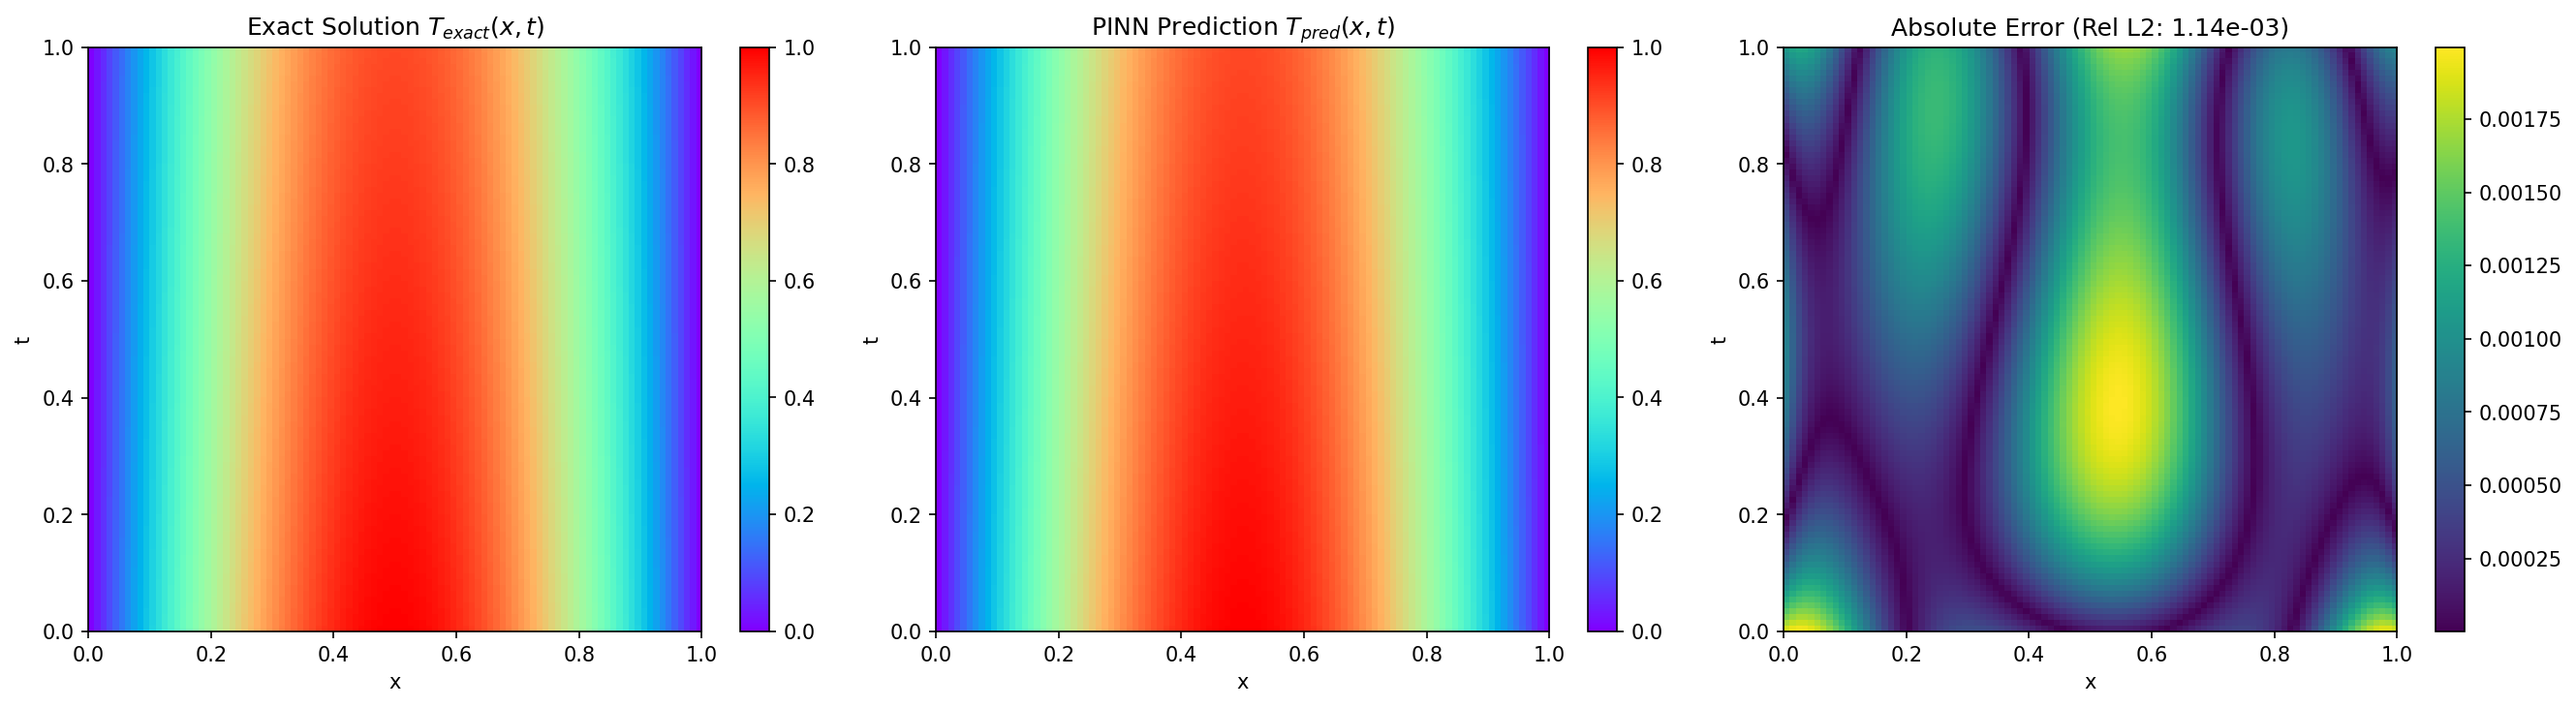
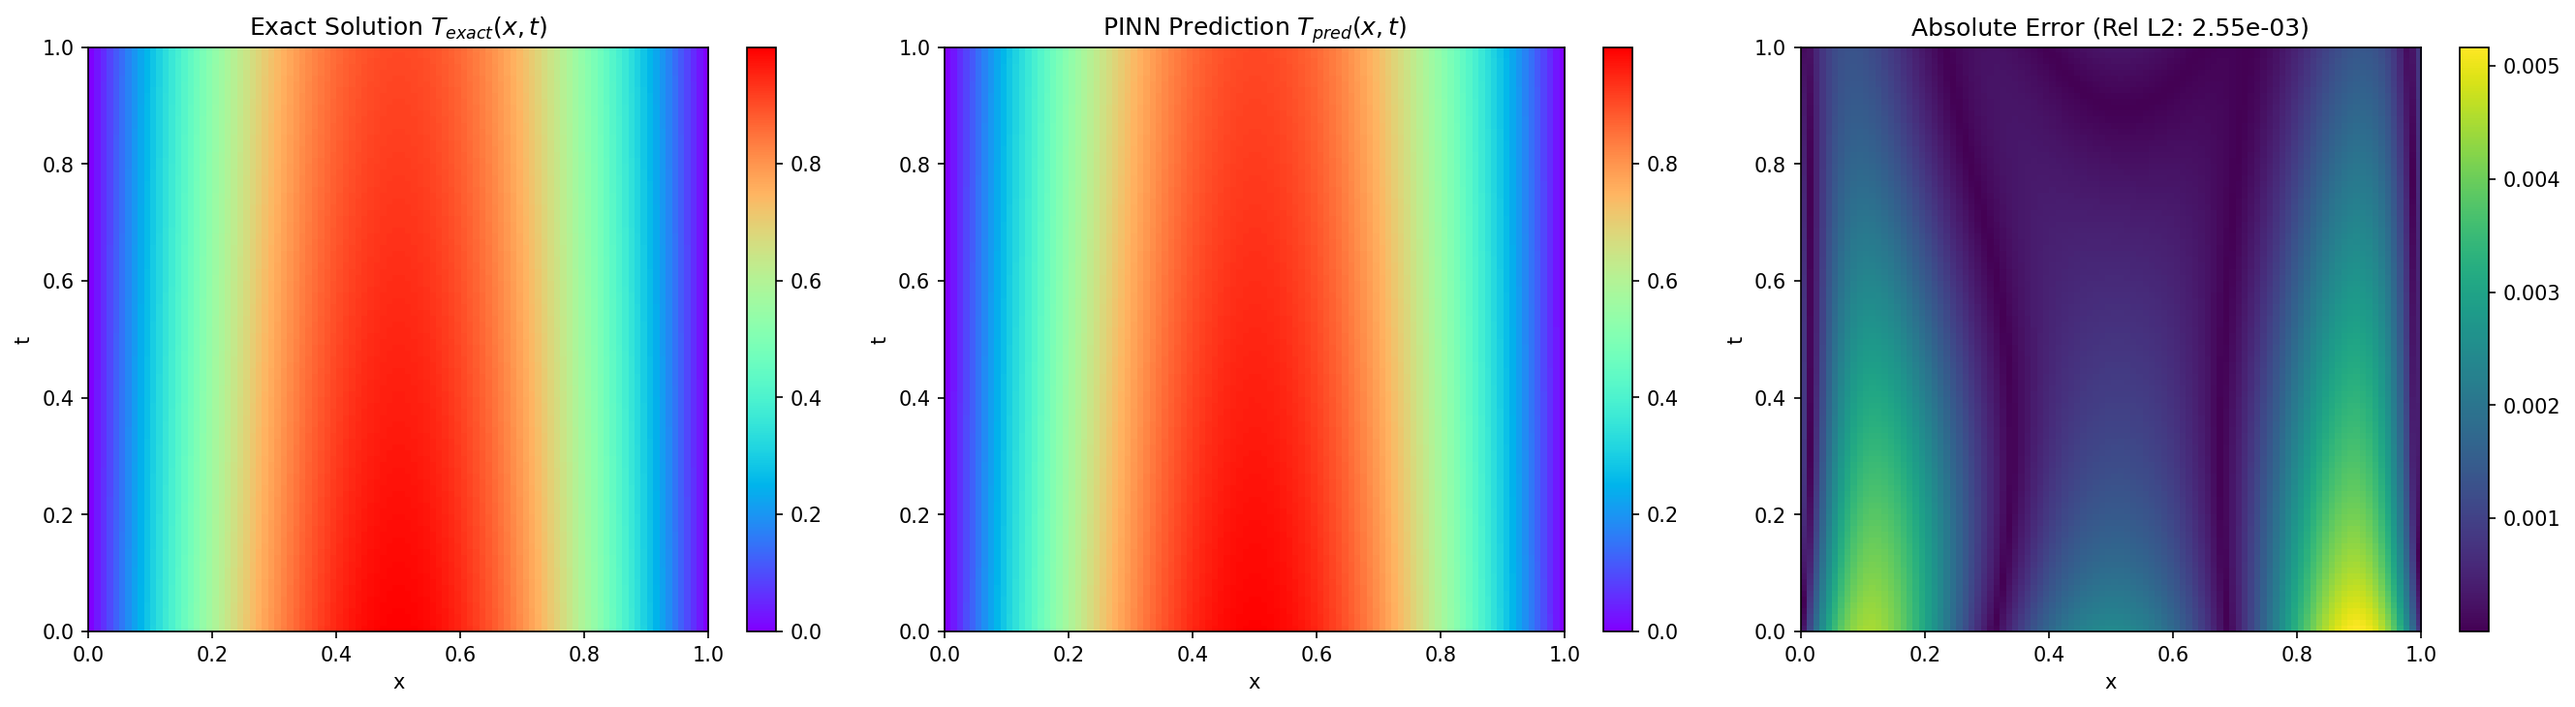
main

diff --git a/2026.2.28/weight_experiment.py b/2026.2.28/weight_experiment.py
@@ -1,0 +1,158 @@
+import torch 
+import torch.nn as nn
+import torch.optim as optim
+import math
+import torch.nn.functional as F
+import matplotlib.pyplot as plt
+import numpy as np
+
+N_f = 1000
+N_ic = 100
+N_bc = 100
+alpha = 0.01
+epochs = 5000
+learning_rate = 1e-3
+w_pde = 1
+w_ic = 1
+w_bc = 1
+
+x = torch.rand(N_f, 1, requires_grad=True)
+t = torch.rand(N_f, 1, requires_grad=True)
+
+x_ic = torch.rand(N_ic, 1)
+t_ic = torch.zeros(N_ic, 1)
+
+x_b = torch.zeros(N_bc, 1)
+t_b = torch.rand(N_bc, 1)
+
+x_c = torch.ones(N_bc, 1)
+t_c = torch.rand(N_bc, 1)
+
+class SimpleMLP(nn.Module):
+    def __init__(self):
+        super().__init__()
+        # 定义输入层到隐藏层（输入维度2 -> 隐藏神经元20）
+        self.hidden_layer = nn.Linear(2, 50)
+        # 定义激活函数
+        self.activation = nn.Tanh()
+        # 定义隐藏层到输出层（隐藏神经元20 -> 输出维度1）
+        self.output_layer = nn.Linear(50, 1)
+
+    def forward(self, x):
+        # 数据流水线：输入 -> 隐藏层 -> 激活函数 -> 输出层
+        x = self.hidden_layer(x)
+        x = self.activation(x)
+        output = self.output_layer(x)
+        return output
+
+def compute_pde_residual(model, x, t, alpha):
+    T = model.forward(torch.cat([x, t], dim=1))
+    dT_dt = torch.autograd.grad(
+        outputs=T, inputs=t, 
+        grad_outputs=torch.ones_like(T), 
+        create_graph=True)[0]
+    dT_dx = torch.autograd.grad(outputs=T, inputs=x, 
+        grad_outputs=torch.ones_like(T),
+        create_graph=True)[0]
+    d2T_dx2 = torch.autograd.grad(outputs=dT_dx, inputs=x,
+        grad_outputs=torch.ones_like(T),
+        create_graph=True)[0]
+    residual = dT_dt - alpha * d2T_dx2
+    return residual
+
+def compute_adaptive_weights(model, loss_pde, loss_ic, loss_bc):
+    """计算自适应权重，基于各项 Loss 对网络最后一层权重的梯度范数"""
+
+    grad_pde_tensor = torch.autograd.grad(loss_pde, model.output_layer.weight, retain_graph=True)[0]
+    grad_ic_tensor  = torch.autograd.grad(loss_ic,  model.output_layer.weight, retain_graph=True)[0]
+    grad_bc_tensor  = torch.autograd.grad(loss_bc,  model.output_layer.weight, retain_graph=True)[0]
+
+    grad_pde = torch.linalg.norm(grad_pde_tensor)
+    grad_ic  = torch.linalg.norm(grad_ic_tensor)
+    grad_bc  = torch.linalg.norm(grad_bc_tensor)
+
+    grad_mean = (grad_pde + grad_ic + grad_bc) / 3.0
+
+    w_pde = (grad_mean / (grad_pde + 1e-8)).detach()
+    w_ic  = (grad_mean / (grad_ic  + 1e-8)).detach()
+    w_bc  = (grad_mean / (grad_bc  + 1e-8)).detach()
+
+    return w_pde, w_ic, w_bc
+model = SimpleMLP()
+optimizer = optim.Adam(model.parameters(), lr=learning_rate)
+
+print("开始训练...")
+for epoch in range(epochs):
+    optimizer.zero_grad()
+
+    residual = compute_pde_residual(model, x, t, alpha)
+    loss_pde = F.mse_loss(residual, torch.zeros_like(residual))
+    
+    loss_ic = F.mse_loss(model(torch.cat([x_ic, t_ic], dim=1)), torch.sin(x_ic * math.pi))
+    T_left = model(torch.cat([x_b, t_b], dim=1))
+    T_right = model(torch.cat([x_c, t_c], dim=1))
+    loss_bc = F.mse_loss(T_left, torch.zeros_like(T_left)) + F.mse_loss(T_right, torch.zeros_like(T_right))
+
+    w_pde, w_ic, w_bc = compute_adaptive_weights(model, loss_pde, loss_ic, loss_bc)
+    loss_total = w_pde * loss_pde + w_ic * loss_ic + w_bc * loss_bc
+
+    loss_total.backward()
+    optimizer.step()
+
+    if (epoch + 1) % 100 == 0:
+        print(f"Epoch [{epoch+1}/{epochs}], Loss Total: {loss_total.item():.6f} "
+              f"(PDE: {loss_pde.item():.6f}, IC: {loss_ic.item():.6f}, BC: {loss_bc.item():.6f})")
+print("训练完成！")
+
+x_eval = torch.linspace(0, 1, 100)
+t_eval = torch.linspace(0, 1, 100)
+X, T_grid = torch.meshgrid(x_eval, t_eval, indexing='ij')
+
+X_flat = X.flatten().unsqueeze(1)
+T_flat = T_grid.flatten().unsqueeze(1)
+XT_eval = torch.cat([X_flat, T_flat], dim=1)
+
+model.eval()
+with torch.no_grad():
+    T_pred_flat = model(XT_eval)
+
+T_pred = T_pred_flat.reshape(100, 100).numpy()
+
+X_np = X.numpy()
+T_np = T_grid.numpy()
+alpha_val = 0.01
+
+T_exact = np.sin(np.pi * X_np) * np.exp(-alpha_val * (np.pi**2) * T_np)
+error_l2 = np.linalg.norm(T_pred - T_exact, 2) / np.linalg.norm(T_exact, 2)
+print(f"相对 L2 误差 (Relative L2 Error): {error_l2:.4e}")
+
+# 画 图
+# fig, axes = plt.subplots(1, 3, figsize=(18, 5))
+# vmin = min(T_exact.min(), T_pred.min())
+# vmax = max(T_exact.max(), T_pred.max())
+
+# h1 = axes[0].imshow(T_exact.T, interpolation='nearest', cmap='rainbow', 
+#                     extent=[0, 1, 0, 1], origin='lower', aspect='auto', vmin=vmin, vmax=vmax)
+# axes[0].set_title('Exact Solution $T_{exact}(x,t)$')
+# axes[0].set_xlabel('x')
+# axes[0].set_ylabel('t')
+# fig.colorbar(h1, ax=axes[0])
+
+# h2 = axes[1].imshow(T_pred.T, interpolation='nearest', cmap='rainbow', 
+#                     extent=[0, 1, 0, 1], origin='lower', aspect='auto', vmin=vmin, vmax=vmax)
+# axes[1].set_title('PINN Prediction $T_{pred}(x,t)$')
+# axes[1].set_xlabel('x')
+# axes[1].set_ylabel('t')
+# fig.colorbar(h2, ax=axes[1])
+
+# abs_error = np.abs(T_exact - T_pred)
+# h3 = axes[2].imshow(abs_error.T, interpolation='nearest', cmap='viridis', 
+#                     extent=[0, 1, 0, 1], origin='lower', aspect='auto')
+# axes[2].set_title(f'Absolute Error (Rel L2: {error_l2:.2e})')
+# axes[2].set_xlabel('x')
+# axes[2].set_ylabel('t')
+# fig.colorbar(h3, ax=axes[2])
+
+# plt.tight_layout()
+# plt.savefig('heat_equation_result.png', dpi=150, bbox_inches='tight')
+# print("图片已保存为 heat_equation_result.png")

diff --git a/2026.2.28/parametric_pinn.py b/2026.2.28/parametric_pinn.py
@@ -1,0 +1,146 @@
+import torch 
+import torch.nn as nn
+import torch.optim as optim
+import math
+import torch.nn.functional as F
+import matplotlib.pyplot as plt
+import numpy as np
+
+N_f = 1000
+N_ic = 100
+N_bc = 100
+alpha = 0.01
+alpha_min = 0.01
+alpha_max = 0.1
+alpha_test = 0.05
+epochs = 10000
+learning_rate = 1e-3
+
+x = torch.rand(N_f, 1, requires_grad=True)
+t = torch.rand(N_f, 1, requires_grad=True)
+alpha_sample = alpha_min + (alpha_max - alpha_min) * torch.rand(N_f, 1)
+
+x_ic = torch.rand(N_ic, 1)
+t_ic = torch.zeros(N_ic, 1)
+alpha_ic = alpha_min + (alpha_max - alpha_min) * torch.rand(N_ic, 1)
+
+x_b = torch.zeros(N_bc, 1)
+t_b = torch.rand(N_bc, 1)
+alpha_b = alpha_min + (alpha_max - alpha_min) * torch.rand(N_bc, 1)
+
+x_c = torch.ones(N_bc, 1)
+t_c = torch.rand(N_bc, 1)
+alpha_c = alpha_min + (alpha_max - alpha_min) * torch.rand(N_bc, 1)
+
+
+class SimpleMLP(nn.Module):
+    def __init__(self):
+        super().__init__()
+        # 定义输入层到隐藏层（输入维度3 -> 隐藏神经元64）
+        self.hidden_layer1 = nn.Linear(3,  64)
+        self.hidden_layer2 = nn.Linear(64, 64)
+        self.hidden_layer3 = nn.Linear(64, 64)
+        # 定义激活函数
+        self.activation = nn.Tanh()
+        # 定义隐藏层到输出层（隐藏神经元50 -> 输出维度1）
+        self.output_layer = nn.Linear(64, 1)
+
+    def forward(self, x):
+        # 数据流水线：输入 -> 隐藏层 -> 激活函数 -> 输出层
+        x = self.hidden_layer(x)
+        x = self.activation(x)
+        output = self.output_layer(x)
+        return output
+
+def compute_pde_residual(model, x, t, alpha):
+    T = model.forward(torch.cat([x, t, alpha], dim=1))
+    dT_dt = torch.autograd.grad(
+        outputs=T, inputs=t, 
+        grad_outputs=torch.ones_like(T), 
+        create_graph=True)[0]
+    dT_dx = torch.autograd.grad(outputs=T, inputs=x, 
+        grad_outputs=torch.ones_like(T),
+        create_graph=True)[0]
+    d2T_dx2 = torch.autograd.grad(outputs=dT_dx, inputs=x,
+        grad_outputs=torch.ones_like(T),
+        create_graph=True)[0]
+    residual = dT_dt - alpha * d2T_dx2
+    return residual
+
+model = SimpleMLP()
+optimizer = optim.Adam(model.parameters(), lr=learning_rate)
+
+print("开始训练...")
+for epoch in range(epochs):
+    optimizer.zero_grad()
+
+    residual = compute_pde_residual(model, x, t, alpha_sample)
+    loss_pde = F.mse_loss(residual, torch.zeros_like(residual))
+    
+    loss_ic = F.mse_loss(model(torch.cat([x_ic, t_ic, alpha_ic], dim=1)), torch.sin(x_ic * math.pi))
+    T_left = model(torch.cat([x_b, t_b, alpha_b], dim=1))
+    T_right = model(torch.cat([x_c, t_c, alpha_c], dim=1))
+    loss_bc = F.mse_loss(T_left, torch.zeros_like(T_left)) + F.mse_loss(T_right, torch.zeros_like(T_right))
+
+    loss_total = loss_pde + loss_ic + loss_bc
+
+    loss_total.backward()
+    optimizer.step()
+
+    if (epoch + 1) % 100 == 0:
+        print(f"Epoch [{epoch+1}/{epochs}], Loss Total: {loss_total.item():.6f} "
+              f"(PDE: {loss_pde.item():.6f}, IC: {loss_ic.item():.6f}, BC: {loss_bc.item():.6f})")
+print("训练完成！")
+
+x_eval = torch.linspace(0, 1, 100)
+t_eval = torch.linspace(0, 1, 100)
+X, T_grid = torch.meshgrid(x_eval, t_eval, indexing='ij')
+
+X_flat = X.flatten().unsqueeze(1)
+T_flat = T_grid.flatten().unsqueeze(1)
+alpha_eval = torch.full_like(X_flat, alpha_test)
+XT_eval = torch.cat([X_flat, T_flat, alpha_eval], dim=1)
+
+model.eval()
+with torch.no_grad():
+    T_pred_flat = model(XT_eval)
+
+T_pred = T_pred_flat.reshape(100, 100).numpy()
+
+X_np = X.numpy()
+T_np = T_grid.numpy()
+alpha_val = alpha_test  # 验证时必须与网络预测用的 α 一致
+
+T_exact = np.sin(np.pi * X_np) * np.exp(-alpha_val * (np.pi**2) * T_np)
+error_l2 = np.linalg.norm(T_pred - T_exact, 2) / np.linalg.norm(T_exact, 2)
+print(f"相对 L2 误差 (Relative L2 Error): {error_l2:.4e}")
+
+fig, axes = plt.subplots(1, 3, figsize=(18, 5))
+vmin = min(T_exact.min(), T_pred.min())
+vmax = max(T_exact.max(), T_pred.max())
+
+h1 = axes[0].imshow(T_exact.T, interpolation='nearest', cmap='rainbow', 
+                    extent=[0, 1, 0, 1], origin='lower', aspect='auto', vmin=vmin, vmax=vmax)
+axes[0].set_title('Exact Solution $T_{exact}(x,t)$')
+axes[0].set_xlabel('x')
+axes[0].set_ylabel('t')
+fig.colorbar(h1, ax=axes[0])
+
+h2 = axes[1].imshow(T_pred.T, interpolation='nearest', cmap='rainbow', 
+                    extent=[0, 1, 0, 1], origin='lower', aspect='auto', vmin=vmin, vmax=vmax)
+axes[1].set_title('PINN Prediction $T_{pred}(x,t)$')
+axes[1].set_xlabel('x')
+axes[1].set_ylabel('t')
+fig.colorbar(h2, ax=axes[1])
+
+abs_error = np.abs(T_exact - T_pred)
+h3 = axes[2].imshow(abs_error.T, interpolation='nearest', cmap='viridis', 
+                    extent=[0, 1, 0, 1], origin='lower', aspect='auto')
+axes[2].set_title(f'Absolute Error (Rel L2: {error_l2:.2e})')
+axes[2].set_xlabel('x')
+axes[2].set_ylabel('t')
+fig.colorbar(h3, ax=axes[2])
+
+plt.tight_layout()
+plt.savefig('heat_equation_result.png', dpi=150, bbox_inches='tight')
+print("图片已保存为 heat_equation_result.png")

diff --git a/Note.md b/Note.md
@@ -59,3 +59,32 @@
 - 网络结构：`[2] → [50, Tanh] → [1]`，Adam 优化器 `lr=1e-3`，训练 5000 轮。
 - **最终相对 L2 误差：1.14e-03（约 0.1%）**，与解析解 `T(x,t) = sin(πx)·exp(-απ²t)` 高度吻合。
 - 调参经验：增加训练轮数（1000→5000）和隐藏神经元数（20→50）对收敛效果提升显著。
+
+### 8. Loss 权重平衡实验
+**日期**: 2026.2.28
+
+#### 8.1 手动权重对比实验
+- `loss_total = w_pde * loss_pde + w_ic * loss_ic + w_bc * loss_bc`
+- 对比三组固定权重配置，结果如下：
+
+| 权重 (PDE:IC:BC) | 最终 L2 误差 | 结论 |
+|---|---|---|
+| 1:1:1（等权） | **7.29e-04** | 最优 |
+| 100:1:1 | 8.45e-03 | 差 12 倍，PDE 被过度满足，IC/BC 被忽视 |
+| 1:100:100 | 2.18e-02 | 差 30 倍，BC/IC 被死记硬背，域内物理方程被违反 |
+
+- **核心发现**：在这个简单问题上，三项 Loss 初始量级接近（都在 1e-2 ~ 2e-1），等权本身就是近似最优的。人为破坏平衡会导致"强项压制弱项"。
+- **工程类比**：等同于多物理场耦合中不同量纲的物理量不能直接相加——需要归一化或加权系数。
+
+#### 8.2 自适应权重（基于梯度范数）
+- **为什么不能把权重定义为 `nn.Parameter`？**
+  优化器目标是最小化 `loss_total`，而 `∂L_total/∂w_pde = L_pde ≥ 0`，优化器会不断减小权重→趋近于 0 甚至变负——等于"作弊"。
+- **正确方案：梯度范数平衡法**  
+  - 计算各项 Loss 对网络最后一层权重（`output_layer.weight`）的梯度范数
+  - `w_i = grad_mean / grad_i`（梯度大的项权重小，梯度小的项权重大）
+  - 使用 `retain_graph=True`（保留计算图供后续 backward），**不需要** `create_graph=True`（梯度范数仅是统计量，不参与反向传播）
+  - 计算结果必须 `.detach()` 脱离计算图
+- **实验结果**：自适应权重 L2 误差 = 2.40e-03，比等权（7.29e-04）差约 3 倍。原因：
+  1. 简单问题不需要自适应——等权已经足够平衡
+  2. 每轮更新权重导致 loss_total 曲线震荡，训练不稳定
+  3. 自适应方法的真正价值在"各项 Loss 天然量级差异巨大"的复杂问题中
